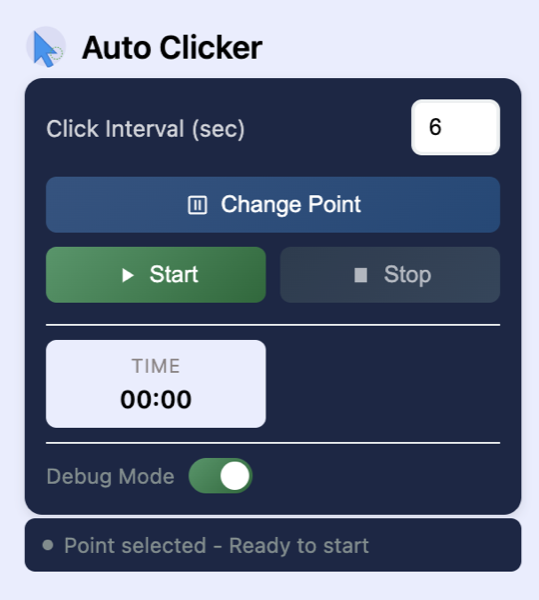
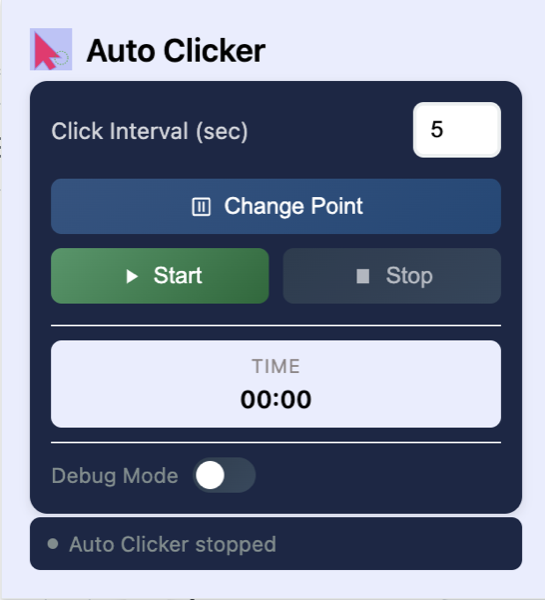
chore: disable debug mode by default

diff --git a/content.js b/content.js
@@ -5,7 +5,7 @@ let clickerConfig = {
   jitterRange: 1000, // ±1 second jitter
   isRunning: false,
   intervalId: null,
-  debug: true, // Debug mode enabled by default
+  debug: false, // Debug mode desabled by default
   pointSelected: false // Track if point has been selected
 };
 
